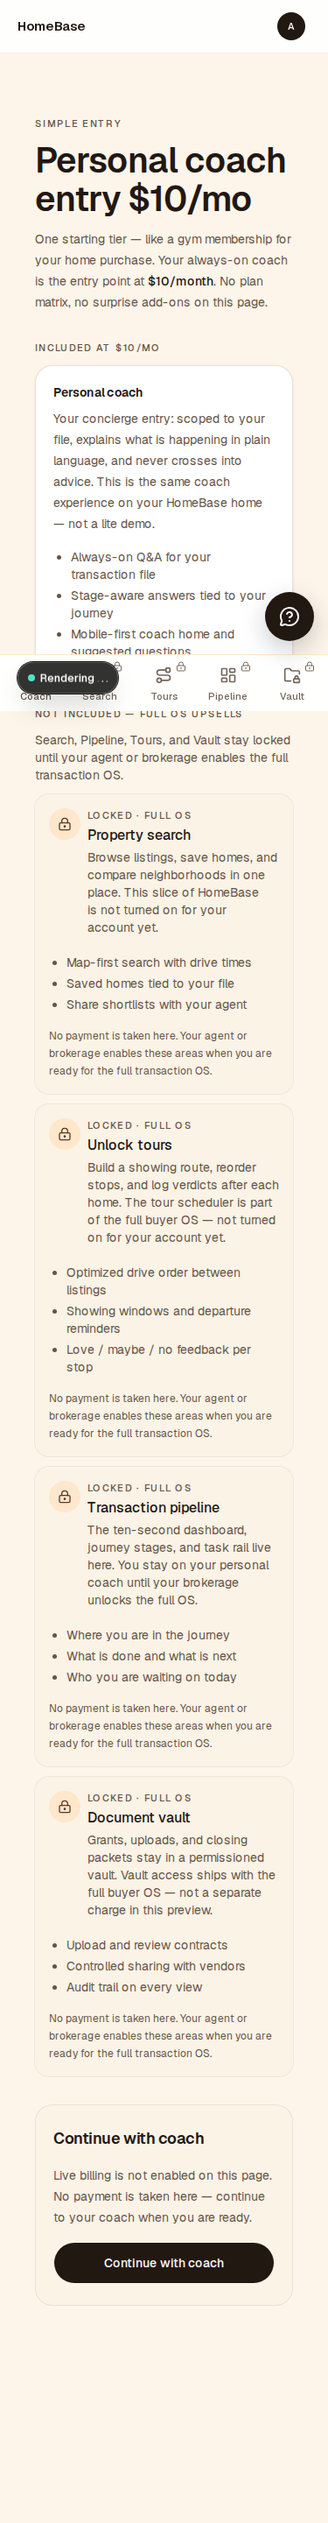
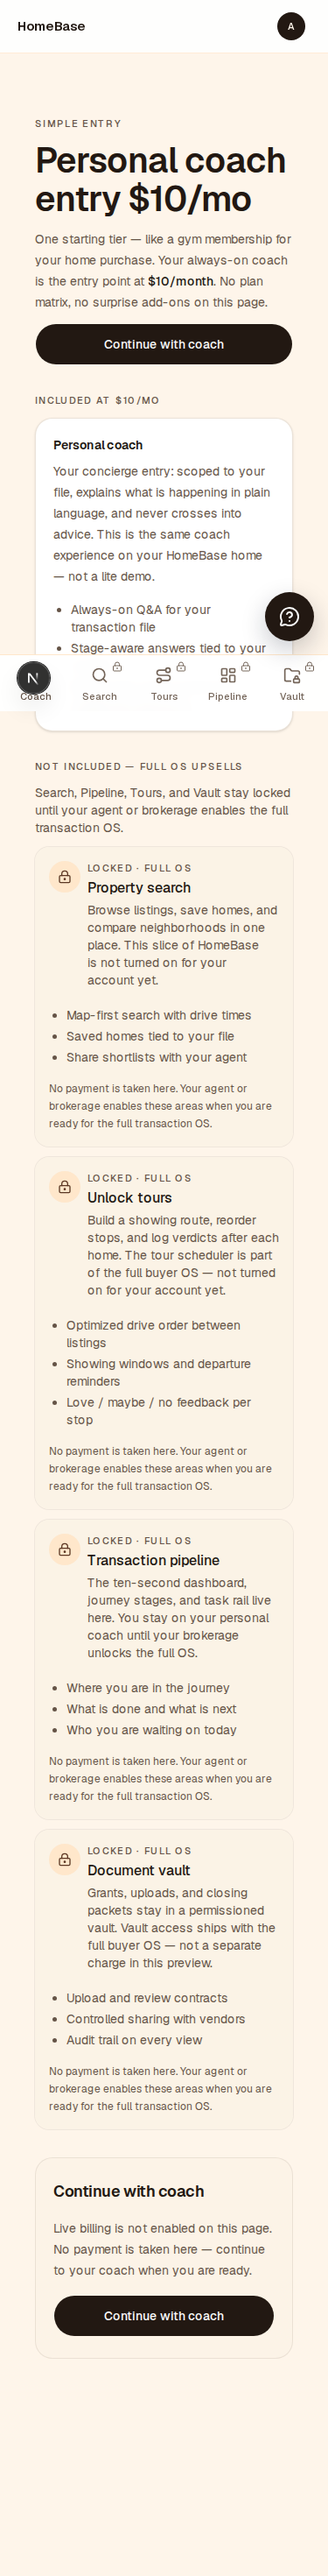
fix(pricing): hero Continue CTA visible above fold @375
Add pricing-continue-coach-hero under the $10 entry header so the primary
action shares the first screen with the price. Keep bottom CTA and billing
disclaimer. Refresh proof screenshots including above-fold capture.

Changed region(s): [[0.0293, 0.0312, 0.968, 0.9059]]

diff --git a/src/components/pricing-page-content.tsx b/src/components/pricing-page-content.tsx
@@ -10,6 +10,28 @@ import {
 } from "@/lib/pricing";
 import { cn } from "@/lib/utils";
 
+function ContinueCoachLink({
+  testId,
+  className,
+}: {
+  testId: string;
+  className?: string;
+}) {
+  return (
+    <Link
+      href={BUYER_COACH_HOME}
+      data-testid={testId}
+      className={cn(
+        buttonVariants({ variant: "default", size: "lg" }),
+        "w-full rounded-full",
+        className,
+      )}
+    >
+      Continue with coach
+    </Link>
+  );
+}
+
 export function PricingPageContent() {
   return (
     <div
@@ -32,6 +54,7 @@ export function PricingPageContent() {
           </span>
           . No plan matrix, no surprise add-ons on this page.
         </p>
+        <ContinueCoachLink testId="pricing-continue-coach-hero" />
       </header>
 
       <section aria-labelledby="pricing-included-heading" className="space-y-3">
@@ -87,16 +110,7 @@ export function PricingPageContent() {
         >
           {PRICING_BILLING_DISCLAIMER}
         </p>
-        <Link
-          href={BUYER_COACH_HOME}
-          data-testid="pricing-continue-coach"
-          className={cn(
-            buttonVariants({ variant: "default", size: "lg" }),
-            "w-full rounded-full",
-          )}
-        >
-          Continue with coach
-        </Link>
+        <ContinueCoachLink testId="pricing-continue-coach" />
       </section>
     </div>
   );

diff --git a/e2e/pricing-proof.spec.ts b/e2e/pricing-proof.spec.ts
@@ -12,6 +12,11 @@ test("pricing proof — $10/mo and locked upsells @375", async ({ page }) => {
   await expect(page).toHaveURL(/\/coach$/);
   await page.getByTestId("coach-pricing-link").click();
   await expect(page.getByTestId("pricing-coach-price")).toHaveText("$10/mo");
+  await expect(page.getByTestId("pricing-continue-coach-hero")).toBeVisible();
+  await page.screenshot({
+    path: "proof/pricing/pricing-coach-10-hero-cta-above-fold-375.png",
+    fullPage: false,
+  });
   await page.screenshot({
     path: "proof/pricing/pricing-coach-10-locked-upsells-375.png",
     fullPage: true,
